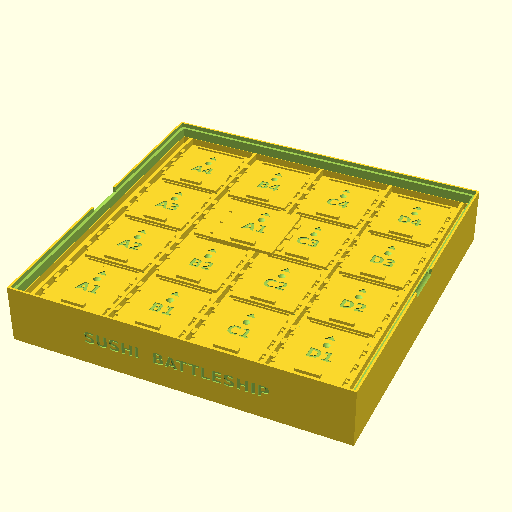
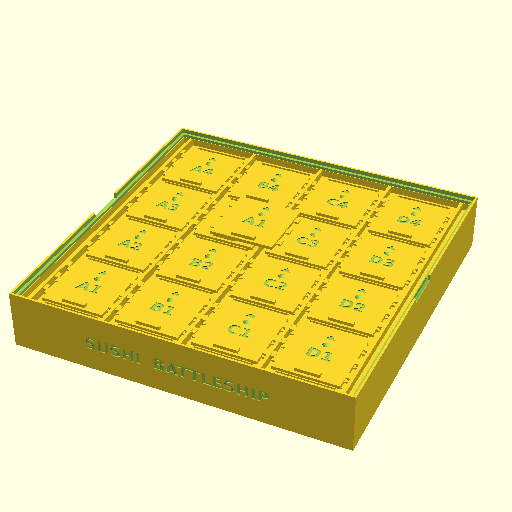
assembly.sh: tunable explode distance + NopSCADlib only when vitamins declared (#183)
* assembly.sh: tunable explode distance + NopSCADlib only when vitamins declared

The assembly generator (#156, stage 2 of #98) had two gaps that only a real
render surfaces — and until now nothing rendered it (no design ships an
assembly.conf; the selftest renders nothing). Piloting on the one live
multi-part design (sushi-battleship-tracker, #158) exposed both:

1. Explode distance was hardcoded (explode(idx*20), translate z idx*5). On a
   ~250 mm part that is invisible: the parts render nested and the "exploded"
   view reads as the assembled unit. Add an `explode: <mm>` manifest key (the
   per-step separation between stacked parts) with a larger default (30). The
   tracker sets explode: 150 and the lid separates cleanly above the tray.

2. NopSCADlib was included unconditionally, making every assembly artifact a
   GPL-3.0 combined work needing a product-page disclosure — even for a
   fastener-free design that uses none of NopSCADlib's value. Include
   NopSCADlib (and the assembly()/explode() wrappers) ONLY when the manifest
   declares a `vitamin:`. A parts-only manifest renders with pure first-party
   OpenSCAD (parts stacked by a plain translate) and skips the BOM echo pass,
   so a vitamin-free design is not a combined work and needs no disclosure.
   Declaring a vitamin is the design-layer opt-in.

Also guard an empty manifest (no part:/vitamin:) as an error rather than an
empty render, and fix the header's inaccurate "title-cased" default note.
[…]

diff --git a/CLAUDE.md b/CLAUDE.md
@@ -262,7 +262,7 @@ Workflow skills (`.claude/skills/`):
 - `people/` — the **team registry** (issue #123): one `people/<handle>.md` per member, human or agent — a small `---`-fenced `key: value` header (name, kind, role, initials; `shared: true` for the repo-wide review specialists; a `mandate:` path for agents; an optional `github:` login that lets the team timeline attribute a git commit to the member — `site/lib/history.mjs`) with the body as a human's bio. Agents never re-type their mandate: the header points at the charter (`.claude/skills/<skill>/SKILL.md`, or a PM agent's design `PM.md`) and `site/lib/team.mjs` reads it at build time — same discipline as the site configurator reading the `.scad` instead of a copy. `people/work.conf` is the **interim recent-work manifest** (issue #124): one pipe-separated line per recorded piece of work, each citing a committed artifact, rendered on member profiles until the team timeline (issue #126) supersedes it. An unresolvable handle, mandate path, or cited artifact fails `./scripts/site.sh`.
 - `build/` — generated STLs and PNGs; gitignored. STLs are regenerated from source, never hand-edited or committed.
 - `printer.conf` — the repo-level **print-feedback profile** (issue #101): a printer's measured characteristics (`printer_xy_tol`, `printer_nozzle_d`, `printer_material`), committed **inert** (it overrides nothing) so a fresh clone behaves exactly as it did before the file existed. A design opts in with `include <printer-conf.scad>` (see `lib/printer-conf.scad`) to pre-fill its tuned-fit tolerances from the profile instead of a generic default; the "Log a print result" Action (`.github/workflows/log-print-result.yml`) can append measured deviations to a design's NOTES.md. Fully documented in `docs/print-feedback.md`.
-- `scripts/` — the full toolchain: `render.sh`, `check.sh`, `gate.sh`, `lineage.sh`, `readme-gate.sh`, `animate.sh`, `product-shot.sh`, `lifestyle-shot.sh`, `lifestyle-clip.sh`, `product-page.sh`, `gallery.sh`, `style-lift.sh`, `style-check.sh`, `lint-scad.sh`, `site.sh` (all described above), plus `ci-classify.sh` (the single source of truth for CI's changed-file classification — which gates run and over which designs; `ci.yml`'s `changes` job pipes its diff to it and `/preflight` runs it `--local`, so the local mirror can't drift from the workflow, with a `--selftest` run by check.sh), `docs-check.sh` (docs-drift assertions, run by check.sh), `docs-standards-check.sh` (the standards gate for the architecture docs — `docs/architecture/*.md` — and the How-it-works site page with its four inline-SVG diagrams: the docs exist and cross-link, the page is exported/emitted/in the nav and traces back to the docs, the diagrams are authored inline and used; a pure presence/wiring check with no OpenSCAD, selected by `ci-classify.sh`'s `docs_standards` output when a change touches `docs/`, the page's source, this gate script, or `ci.yml` — smart CI, not an unconditional gate — and run as its own light `docs-standards` CI job with a `--selftest`; **not** run by check.sh, so a docs-only PR spins up no render toolchain; issue-tracked as the architecture-docs page work), `guard-check.sh` (fires every `lib/*-guards.conf` case and fails if a library guard stops refusing it, run by check.sh), `mate-check.sh` (renders every `lib/*-mates.conf` case and fails if a declared fit stops assembling — or if its negative control stops interfering, run by check.sh), `printer-conf-check.sh` (proves the `printer.conf` profile mechanism still resolves the generic default when nothing is measured and the profile's value when one is — reaching the exported geometry, not just an echo, run by check.sh), `nopscadlib-check.sh` (proves the vendored `lib/NopSCADlib/` tree still resolves through `OPENSCADPATH` and builds a real vitamin — no committed file includes NopSCADlib yet, so nothing else in check.sh would notice if the vendored tree went missing: an unresolved `include` only WARNs and exits 0, the silent wrong-geometry failure; run by check.sh, issue #155), `license-boundary-check.sh` (enforces print-bench's copyleft/GPL core stance — issue #160, standing decision, full policy `docs/licensing.md`: fails if a shared first-party `lib/*.scad` `include`s a copyleft-vendored library (GPL would spread to every design using the shared unit) or if `scripts/`/`site/` code bundles the vendored copyleft source tree; a generator emitting a per-design opt-in include like `assembly.sh` and invoking GPL tools the repo doesn't ship stay allowed; with a `--selftest`, run by check.sh), `assembly.sh` (the generator half of the assembly-instructions feature, #98 stage 2 — issue #156: reads a per-design `designs/<name>/assembly.conf` manifest of printed parts and vitamins in the house `key: value` conf style, and produces an exploded-view render at `designs/<name>/previews/exploded.png` plus `designs/<name>/ASSEMBLY.md` with the BOM and step-by-step text, using NopSCADlib's BOM/assembly tooling; wired into CI's `regen` job and gated presence-only by `readme-gate.sh` (an `assembly.conf` design must commit + embed `previews/exploded.png` in budget) and fingerprinted by `regen-stamp.sh` (#157); no design ships a manifest yet (stage 4); with a `--selftest` proving the manifest parser, run by check.sh), `chunker-perms-check.sh` (proves the chunker's deny backstop in `.claude/chunker-settings.json` still neutralizes every dangerous tool allow it would otherwise inherit from `.claude/settings.json` — claude-code-action loads that file via `settingSources=project`, and allow rules merge additively, so the narrow `--allowedTools` alone is not exclusive; run by check.sh, with a `--selftest`; issue-tracked as CR-A), `gate-summary.py` (turns a gate.sh log into the markdown table CI posts as the job summary and sticky PR comment), `shot-spec.sh` (authors a design's `shots.conf`/`lifestyle.conf` from a PM's art-direction brief — named views and colors instead of camera tuples and hex, the freeze and disclosure standards enforced mechanically; the mechanics behind `/art-direction`, with a `--selftest` run by check.sh), `preview-budget.sh` (sourced helper defining the GIF and product-shot size budgets), `regen-stamp.sh` (prints a design's regeneration input fingerprint; CI's regen job compares it against the committed `designs/<name>/previews/.regen-stamp` and skips re-rendering a design whose inputs have not moved) , `field-test.sh` (appends a FIELD-TEST entry — one real print's result — to a design's NOTES.md; the tested core of the `Log a print result` workflow_dispatch Action, with a `--selftest` run by check.sh), `telemetry.sh` (the repo's self-measurement entry, issue #93: `capture` turns one gate run into one JSON record — printcheck scores, per-design gate wall time, preview budget headroom against `preview-budget.sh`, what was skipped and why — and `report` renders the committed `telemetry/log.ndjson` into `telemetry/REPORT.md`; CI appends a record per default-branch gate run, with a `--selftest` run by check.sh) and `release-bundle.sh` (the build half of the versioned-download UX, issue #102: assembles a versioned, self-describing release bundle per design — the gated STLs, a `manifest.json` of per-part SHA-256 checksums and byte sizes plus the README's machine-readable print settings, and a zip — reusing gate.sh's exported parts so only gated geometry ships, skipping archived designs, with a `--selftest` run by check.sh; the `.github/workflows/release.yml` "Release bundles" workflow gates then runs it and publishes a tagged GitHub Release, attaching the per-part STLs, the per-design zips and the standalone manifests. The site consumes those manifests at build time to render per-part download links on product pages — the second half of #102, issue #139, done in `site/lib/releases.mjs` (best-effort and Vercel-scoped, so local and CI site builds stay deterministic)) and `gh-project.sh` (the committed, repeatable provisioning recipe for the autonomy roadmap board, issue #148: the board schema lives as a spec at the top of the script, and `setup` emits the idempotent `gh project` commands that create it — a Projects v2 board is settings-shaped and can't be created by the automation here, so git holds the schema and a human runs the recipe; `--selftest`, run by check.sh, proves the emitted recipe is valid, idempotent bash; see `docs/roadmap-board.md`). `docs-check.sh` asserts this bullet names every file in `scripts/`, so keep it exhaustive.
+- `scripts/` — the full toolchain: `render.sh`, `check.sh`, `gate.sh`, `lineage.sh`, `readme-gate.sh`, `animate.sh`, `product-shot.sh`, `lifestyle-shot.sh`, `lifestyle-clip.sh`, `product-page.sh`, `gallery.sh`, `style-lift.sh`, `style-check.sh`, `lint-scad.sh`, `site.sh` (all described above), plus `ci-classify.sh` (the single source of truth for CI's changed-file classification — which gates run and over which designs; `ci.yml`'s `changes` job pipes its diff to it and `/preflight` runs it `--local`, so the local mirror can't drift from the workflow, with a `--selftest` run by check.sh), `docs-check.sh` (docs-drift assertions, run by check.sh), `docs-standards-check.sh` (the standards gate for the architecture docs — `docs/architecture/*.md` — and the How-it-works site page with its four inline-SVG diagrams: the docs exist and cross-link, the page is exported/emitted/in the nav and traces back to the docs, the diagrams are authored inline and used; a pure presence/wiring check with no OpenSCAD, selected by `ci-classify.sh`'s `docs_standards` output when a change touches `docs/`, the page's source, this gate script, or `ci.yml` — smart CI, not an unconditional gate — and run as its own light `docs-standards` CI job with a `--selftest`; **not** run by check.sh, so a docs-only PR spins up no render toolchain; issue-tracked as the architecture-docs page work), `guard-check.sh` (fires every `lib/*-guards.conf` case and fails if a library guard stops refusing it, run by check.sh), `mate-check.sh` (renders every `lib/*-mates.conf` case and fails if a declared fit stops assembling — or if its negative control stops interfering, run by check.sh), `printer-conf-check.sh` (proves the `printer.conf` profile mechanism still resolves the generic default when nothing is measured and the profile's value when one is — reaching the exported geometry, not just an echo, run by check.sh), `nopscadlib-check.sh` (proves the vendored `lib/NopSCADlib/` tree still resolves through `OPENSCADPATH` and builds a real vitamin — no committed file includes NopSCADlib yet, so nothing else in check.sh would notice if the vendored tree went missing: an unresolved `include` only WARNs and exits 0, the silent wrong-geometry failure; run by check.sh, issue #155), `license-boundary-check.sh` (enforces print-bench's copyleft/GPL core stance — issue #160, standing decision, full policy `docs/licensing.md`: fails if a shared first-party `lib/*.scad` `include`s a copyleft-vendored library (GPL would spread to every design using the shared unit) or if `scripts/`/`site/` code bundles the vendored copyleft source tree; a generator emitting a per-design opt-in include like `assembly.sh` and invoking GPL tools the repo doesn't ship stay allowed; with a `--selftest`, run by check.sh), `assembly.sh` (the generator half of the assembly-instructions feature, #98 stage 2 — issue #156: reads a per-design `designs/<name>/assembly.conf` manifest of printed parts and vitamins in the house `key: value` conf style, and produces an exploded-view render at `designs/<name>/previews/exploded.png` plus `designs/<name>/ASSEMBLY.md` with the BOM and step-by-step text, using NopSCADlib's BOM/assembly tooling **only when the manifest declares a `vitamin:`** (a parts-only manifest renders with pure first-party OpenSCAD — no GPL combination; declaring a vitamin is the design-layer opt-in), the exploded separation tunable per design with an `explode:` key; wired into CI's `regen` job and gated presence-only by `readme-gate.sh` (an `assembly.conf` design must commit + embed `previews/exploded.png` in budget) and fingerprinted by `regen-stamp.sh` (#157); no design ships a manifest yet (stage 4); with a `--selftest` proving the manifest parser, run by check.sh), `chunker-perms-check.sh` (proves the chunker's deny backstop in `.claude/chunker-settings.json` still neutralizes every dangerous tool allow it would otherwise inherit from `.claude/settings.json` — claude-code-action loads that file via `settingSources=project`, and allow rules merge additively, so the narrow `--allowedTools` alone is not exclusive; run by check.sh, with a `--selftest`; issue-tracked as CR-A), `gate-summary.py` (turns a gate.sh log into the markdown table CI posts as the job summary and sticky PR comment), `shot-spec.sh` (authors a design's `shots.conf`/`lifestyle.conf` from a PM's art-direction brief — named views and colors instead of camera tuples and hex, the freeze and disclosure standards enforced mechanically; the mechanics behind `/art-direction`, with a `--selftest` run by check.sh), `preview-budget.sh` (sourced helper defining the GIF and product-shot size budgets), `regen-stamp.sh` (prints a design's regeneration input fingerprint; CI's regen job compares it against the committed `designs/<name>/previews/.regen-stamp` and skips re-rendering a design whose inputs have not moved) , `field-test.sh` (appends a FIELD-TEST entry — one real print's result — to a design's NOTES.md; the tested core of the `Log a print result` workflow_dispatch Action, with a `--selftest` run by check.sh), `telemetry.sh` (the repo's self-measurement entry, issue #93: `capture` turns one gate run into one JSON record — printcheck scores, per-design gate wall time, preview budget headroom against `preview-budget.sh`, what was skipped and why — and `report` renders the committed `telemetry/log.ndjson` into `telemetry/REPORT.md`; CI appends a record per default-branch gate run, with a `--selftest` run by check.sh) and `release-bundle.sh` (the build half of the versioned-download UX, issue #102: assembles a versioned, self-describing release bundle per design — the gated STLs, a `manifest.json` of per-part SHA-256 checksums and byte sizes plus the README's machine-readable print settings, and a zip — reusing gate.sh's exported parts so only gated geometry ships, skipping archived designs, with a `--selftest` run by check.sh; the `.github/workflows/release.yml` "Release bundles" workflow gates then runs it and publishes a tagged GitHub Release, attaching the per-part STLs, the per-design zips and the standalone manifests. The site consumes those manifests at build time to render per-part download links on product pages — the second half of #102, issue #139, done in `site/lib/releases.mjs` (best-effort and Vercel-scoped, so local and CI site builds stay deterministic)) and `gh-project.sh` (the committed, repeatable provisioning recipe for the autonomy roadmap board, issue #148: the board schema lives as a spec at the top of the script, and `setup` emits the idempotent `gh project` commands that create it — a Projects v2 board is settings-shaped and can't be created by the automation here, so git holds the schema and a human runs the recipe; `--selftest`, run by check.sh, proves the emitted recipe is valid, idempotent bash; see `docs/roadmap-board.md`). `docs-check.sh` asserts this bullet names every file in `scripts/`, so keep it exhaustive.
 - `styles/<name>/` — a **design language** lifted from a reference model, so a user can choose how a new design looks instead of getting whatever the session felt like. `STYLE.md` is the spec a modelling session reads; `style.json` is the hand-edited source of truth (measured evidence, tokens, conformance rules); `style.scad` and STYLE.md's tables are **generated** from it (`stylelift sync`); `swatch.scad` is a small part written in the style that the gate holds to the style's own rules. Designs opt in with `designs/<name>/style.conf` naming the style, and build from the tokens: `include <styles/<name>/style.scad>`. `styles/README.md` is the catalog — docs-check.sh requires every pack to be listed. Never hand-edit `style.scad`; `style-check.sh` fails on drift.
 - `templates/design.scad` — starting point for new designs; demonstrates the parameter conventions below. `templates/README.md` and `templates/PM.md` are the product-page and product-charter starting points. `templates/design-brief.md` is the design-brief format `/intake` files as an issue and the `.github/ISSUE_TEMPLATE/design-brief.yml` issue form mirrors — its section headings and the form's field labels must stay identical. `templates/FIELD-TEST.md` is the FIELD-TEST entry format (a real print's result) the print-feedback convention appends to a design's NOTES.md (issue #101; see `docs/print-feedback.md`).
 - `telemetry/` — the repo's **self-measurement** data (issue #93): `log.ndjson` is the committed telemetry log — one JSON record per default-branch gate run, appended by CI's render-gate job and pushed with `GITHUB_TOKEN` deliberately (that push triggers no workflow, which here is the feature: a re-triggering telemetry commit would gate the catalog, record itself, and commit forever) — and `REPORT.md` is generated from it by `./scripts/telemetry.sh report`, same regen-and-commit pattern as the previews. Both derived once CI writes them; never hand-edit. Consumed by the autonomy features (the scheduled backlog burn #95, the idea→PR pipeline #96) so their decisions can be data-driven.

diff --git a/docs/licensing.md b/docs/licensing.md
@@ -73,13 +73,15 @@ The line for core tooling is **distributed source**, not tool use:
   user or CI installs them. Running a separate GPL program, or using a library
   the repo does not distribute, conveys no GPL. This is fine.
 - **Allowed: a generator that emits a per-design opt-in.** `scripts/assembly.sh`
-  writes a `.scad` that `include`s NopSCADlib to render a design's exploded view
-  and BOM — but only for a design that ships an `assembly.conf`, i.e. a design
-  that has already opted into NopSCADlib at the design layer ([#156](https://github.com/shaiss/print-bench/issues/156)).
-  The generator is the mechanism that realises that one design's opt-in; the
-  combined work it produces is scoped to that design, not to core. The tool
-  itself is first-party CC-BY-SA-4.0 code that emits an include *string*; it does
-  not itself combine with GPL.
+  writes a `.scad` to render a design's exploded view and BOM. It `include`s
+  NopSCADlib **only when that design's `assembly.conf` declares a `vitamin:`** —
+  a bought-in part whose geometry NopSCADlib supplies ([#156](https://github.com/shaiss/print-bench/issues/156)).
+  Declaring a vitamin is the design-layer opt-in; a parts-only manifest renders
+  with pure first-party OpenSCAD and pulls in no GPL at all. When NopSCADlib is
+  included, the generator is the mechanism that realises that one design's
+  opt-in; the combined work it produces is scoped to that design, not to core.
+  The tool itself is first-party CC-BY-SA-4.0 code that emits an include
+  *string*; it does not itself combine with GPL.
 - **Forbidden: bundling vendored copyleft source into distributed first-party
   code.** A script may not copy `lib/NopSCADlib/` into a first-party distributed
   artifact, nor make a shared first-party module combine with it.
